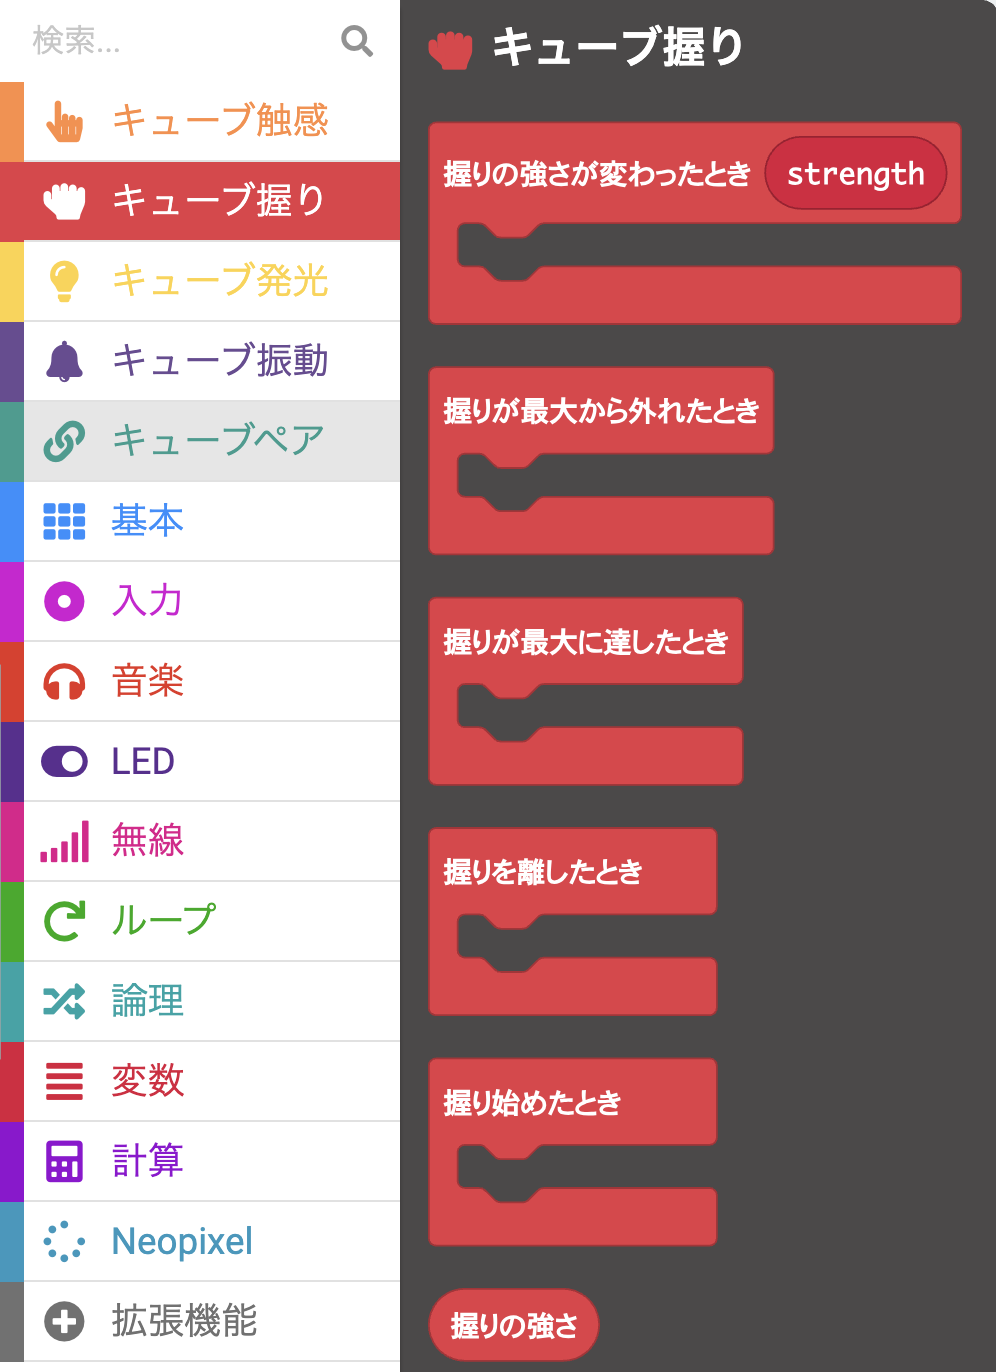
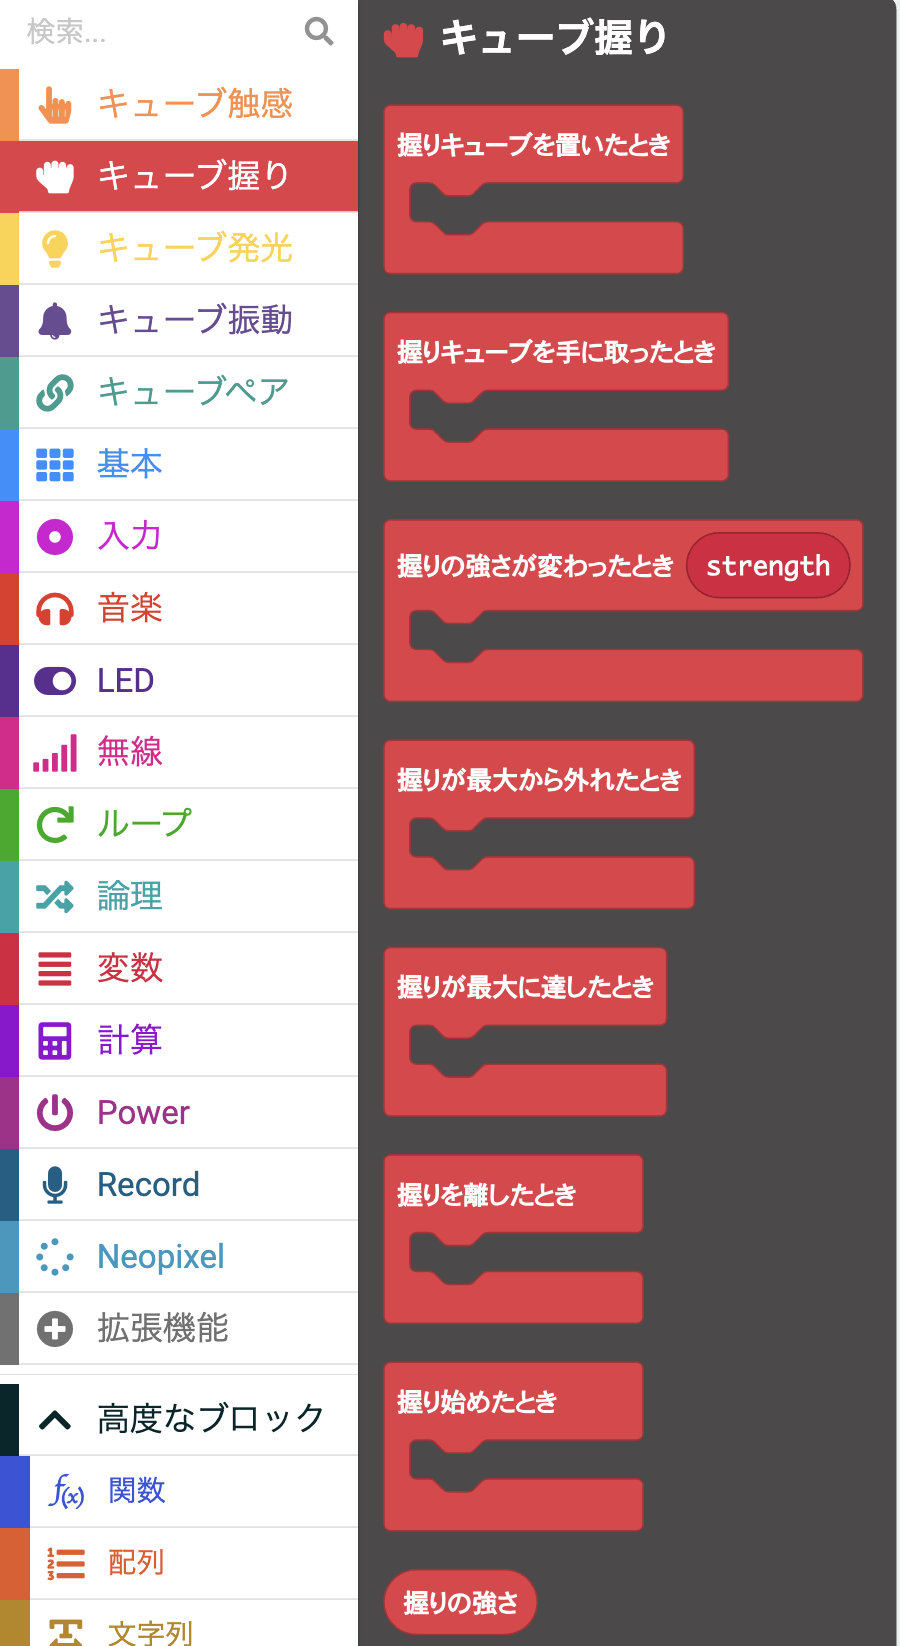
onPickUp/onPutDown をドキュメントに反映、「握りキューブ」に用語統一、ブロック画像を差し替え
docs/overview.md・docs/architecture.md に新イベントを追記。「握りつぶしキューブ」を
「握りキューブ」に全ファイルで統一。overview.md のブロックキャプチャ5枚を
新ブロック追加後の画像に差し替え、img タグ width="400" で幅固定。

diff --git a/docs/architecture.md b/docs/architecture.md
@@ -5,7 +5,7 @@ mood cube 1ペアの実行時構成を示す。
 
 ## ハードウェア構成
 
-触感キューブと握りつぶしキューブはP0に繋ぐセンサだけが異なり、それ以外 (PL9823 / 振動モーター駆動回路 / 電源) は共通。
+触感キューブと握りキューブはP0に繋ぐセンサだけが異なり、それ以外 (PL9823 / 振動モーター駆動回路 / 電源) は共通。
 
 ### 回路図
 
@@ -18,7 +18,7 @@ mood cube 1ペアの実行時構成を示す。
 
 ## ソフトウェア構成
 
-触感キューブと握りつぶしキューブはそれぞれ独立したmicro:bit v2で動き、micro:bitのラジオ機能でペア連動する。アプリ層は各キューブのリポジトリ (mood-cube-touch / mood-cube-grip) に置かれ、mood-cube-blocksが公開するブロックを通じてハードウェアに触れる。
+触感キューブと握りキューブはそれぞれ独立したmicro:bit v2で動き、micro:bitのラジオ機能でペア連動する。アプリ層は各キューブのリポジトリ (mood-cube-touch / mood-cube-grip) に置かれ、mood-cube-blocksが公開するブロックを通じてハードウェアに触れる。
 
 ```mermaid
 flowchart TB
@@ -46,7 +46,7 @@ flowchart TB
         TouchRuntime --- TouchVibe
     end
 
-    subgraph GripCube["握りつぶしキューブ"]
+    subgraph GripCube["握りキューブ"]
         subgraph GripMbit["micro:bit v2"]
             GripApp["アプリ層<br/>mood-cube-grip"]
             GripExt["ハードウェア抽象層<br/>mood-cube-blocks"]
@@ -78,7 +78,7 @@ flowchart TB
 
 ### アプリ層 (mood-cube-touch / mood-cube-grip)
 
-子供がblocksエディタで組む体験ロジック。起動時に`cubePair`で自分の役 (触感/握りつぶし) を宣言する。入力イベントと出力ブロックの結びつけ、モード切替、発光・振動パターンの時間制御をここで書く。
+子供がblocksエディタで組む体験ロジック。起動時に`cubePair`で自分の役 (触感/握り) を宣言する。入力イベントと出力ブロックの結びつけ、モード切替、発光・振動パターンの時間制御をここで書く。
 
 ### mood-cube-blocks (本拡張)
 
@@ -103,6 +103,6 @@ deepSleep制御と周期wakeコールバック、ハード起床ソース設定 
 
 通信の挙動:
 
-- 入力イベント (上面変化・ピン刺し・握り強さなど): 発生側が1.2秒間50ms間隔で連投し、受信側でも同じイベントとして発火する。連投は寝ている相棒の周期wake (1秒以内) で確実に拾わせるため。両者がアクティブ中は最初の数発で受信され、残りは冗長に流れるだけ
+- 入力イベント (上面変化・ピン刺し・握り強さ・手に取る・置くなど): 発生側が1.2秒間50ms間隔で連投し、受信側でも同じイベントとして発火する。連投は寝ている相棒の周期wake (1秒以内) で確実に拾わせるため。両者がアクティブ中は最初の数発で受信され、残りは冗長に流れるだけ
 - ポーリング値 (上面の現在値・握り強度): 取得ブロックが呼ばれた瞬間にリクエストを送り、応答を同期で待つ。タイムアウト時はデフォルト値を返す
 - 出力 (発光・振動): 自分のキューブにのみ作用し、相手には伝搬しない

diff --git a/README.md b/README.md
@@ -7,7 +7,7 @@ micro:bit v2 用 MakeCode 拡張機能。フィジェット作品「mood cube」
 5 つの namespace に分かれている。
 
 - `cubeTouch`: 触感キューブの入力 (上面判定、ピン刺し検知)
-- `cubeGrip`: 握りつぶしキューブの入力 (圧力読み取り、握り始め/離した/最大到達 等のイベント)
+- `cubeGrip`: 握りキューブの入力 (圧力読み取り、握り始め/離した/最大到達 等のイベント)
 - `cubeLight`: フルカラー LED (PL9823) の発光制御。両キューブ共通
 - `cubeVibe`: 振動モーターの制御。両キューブ共通
 - `cubePair`: ペアの相棒キューブとの連動制御。`cubeTouch` と `cubeGrip` の入力イベントは相棒側にも自動で届くので、相棒のキューブで起きた入力に自分のキューブが反応する書き方ができる
@@ -22,7 +22,7 @@ MakeCode の拡張機能インポートで本リポジトリの URL を指定す
 
 ## 想定する作品
 
-触感キューブと握りつぶしキューブの 2 つでペアになるフィジェット作品。それぞれ別の micro:bit に本拡張をインポートしたプロジェクトを書き込み、ハードウェアと組み合わせて動かす。
+触感キューブと握りキューブの 2 つでペアになるフィジェット作品。それぞれ別の micro:bit に本拡張をインポートしたプロジェクトを書き込み、ハードウェアと組み合わせて動かす。
 
 要件などドキュメントは [docs/README.md](docs/README.md) を参照。
 
